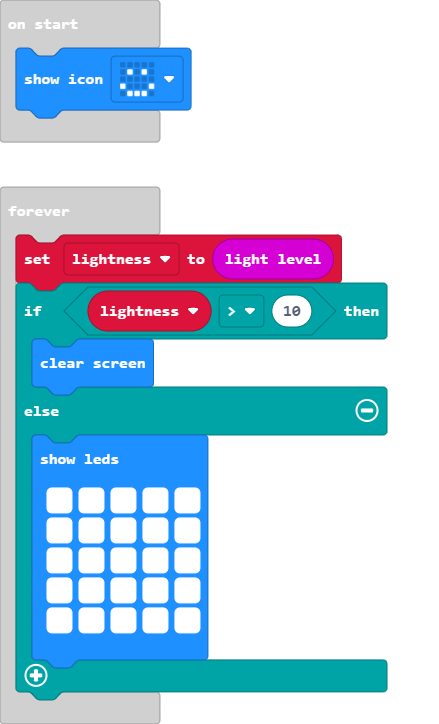
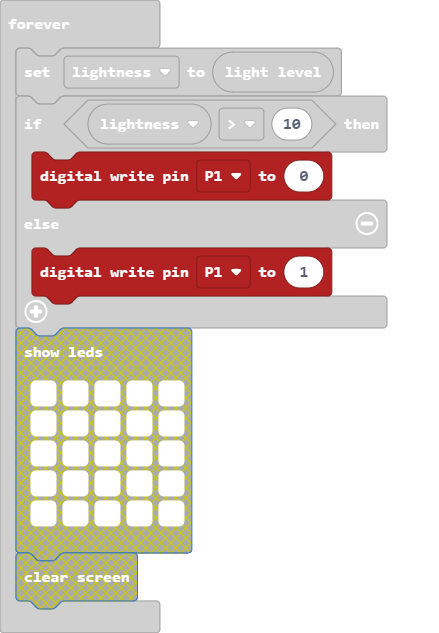
Update main.blocks, main.ts

diff --git a/main.ts b/main.ts
@@ -3,14 +3,8 @@ basic.showIcon(IconNames.Happy)
 basic.forever(function () {
     lightness = input.lightLevel()
     if (lightness > 10) {
-        basic.clearScreen()
+        pins.digitalWritePin(DigitalPin.P1, 0)
     } else {
-        basic.showLeds(`
-            # # # # #
-            # # # # #
-            # # # # #
-            # # # # #
-            # # # # #
-            `)
+        pins.digitalWritePin(DigitalPin.P1, 1)
     }
 })
